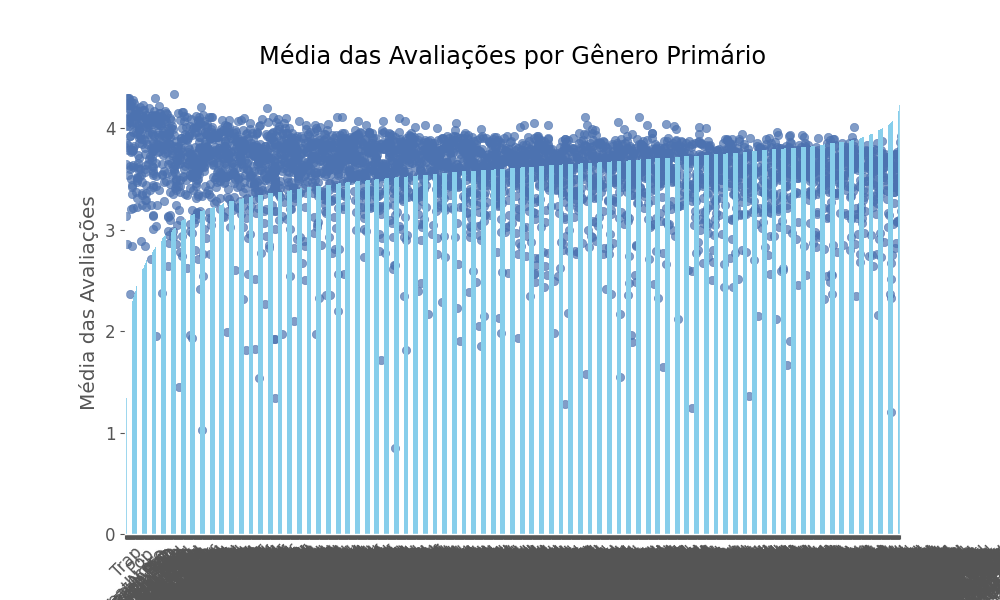
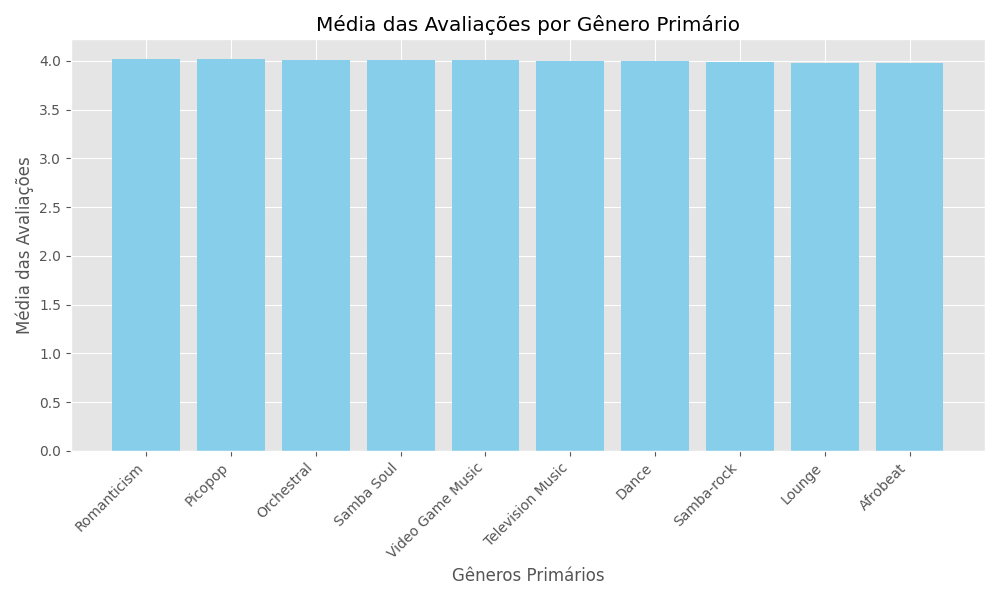
Versão inicial dos gráficos de ralacão entre variáveis

diff --git a/atividade_1/src/variable_relationships.py b/atividade_1/src/variable_relationships.py
@@ -1,0 +1,114 @@
+import pandas as pd
+import matplotlib.pyplot as plt
+import numpy as np
+from frequency_tables import sturges_rule
+
+# Carregar o dataset
+data = pd.read_csv('assets/rym_clean1.csv')
+
+def group_and_average(data, column, values_column, nbins):
+    """
+    Agrupa os valores em intervalos e calcula a média para cada intervalo.
+    """
+    is_datetime = np.issubdtype(data[column].dtype, np.datetime64)
+
+    # Se for datetime, criar uma cópia numérica para binning
+    col_for_binning = data[column].astype('int64') if is_datetime else data[column]
+
+    min_val, max_val = col_for_binning.min(), col_for_binning.max()
+    bin_edges = np.linspace(min_val, max_val, nbins + 1)
+    data['Intervalo'] = pd.cut(col_for_binning, bins=bin_edges, include_lowest=True)
+    grouped = data.groupby('Intervalo')[values_column].mean().reset_index()
+    grouped.rename(columns={values_column: 'Média'}, inplace=True)
+
+    # Reverter intervalos para datas legíveis, se necessário
+    if is_datetime:
+        grouped['Intervalo'] = grouped['Intervalo'].apply(
+            lambda x: f"{pd.to_datetime(x.left).date()} - {pd.to_datetime(x.right).date()}"
+        )
+
+    return grouped
+
+
+def plot_variable_relationships():
+    """
+    Gera gráficos de relação entre variáveis.
+    """
+    # Configuração geral
+    plt.style.use('ggplot')
+
+    # Gráfico 1: Média das avaliações vs. Número de resenhas
+    plt.figure(figsize=(8, 6))
+    plt.scatter(data['review_count'], data['avg_rating'], alpha=0.7)
+    plt.title('Média das Avaliações vs. Número de Resenhas')
+    plt.xlabel('Número de Resenhas')
+    plt.ylabel('Média das Avaliações')
+    plt.grid(True)
+    plt.tight_layout()
+    plt.savefig('outputs/Media_vs_Resenhas.png')
+
+    # Gráfico 2: Data de lançamento vs. Média das avaliações
+    data['release_date'] = pd.to_datetime(data['release_date'])
+    nbins = sturges_rule(len(data))
+    grouped_data = group_and_average(data, 'release_date', 'avg_rating', nbins)
+    grouped_data.plot(kind='line', x='Intervalo', y='Média', figsize=(10, 6), marker='o')
+    plt.title('Média das Avaliações vs. Data de Lançamento')
+    plt.xlabel('Intervalos de Data de Lançamento')
+    plt.ylabel('Média das Avaliações')
+    plt.xticks(rotation=45, ha='right')  # Rotacionar os rótulos do eixo X
+    plt.grid(True)
+    plt.tight_layout()
+    plt.savefig('outputs/Media_vs_Data.png')
+
+    # Gráfico 3: Gêneros primários vs. Média das avaliações (corrigido)
+    genre_data = data[['primary_genres', 'avg_rating']].dropna()
+
+    # Separar múltiplos gêneros
+    genre_data['primary_genres'] = genre_data['primary_genres'].str.split(',')
+
+    # Remover espaços extras e explodir
+    genre_data = genre_data.explode('primary_genres')
+    genre_data['primary_genres'] = genre_data['primary_genres'].str.strip()
+
+    # Agrupar por gênero individual e calcular média
+    genre_avg = genre_data.groupby('primary_genres')['avg_rating'].mean().reset_index()
+    genre_avg = genre_avg.sort_values(by='avg_rating', ascending=False).head(10)  # Top 10 gêneros
+
+    # Plotar
+    plt.figure(figsize=(10, 6))
+    plt.bar(genre_avg['primary_genres'], genre_avg['avg_rating'], color='skyblue')
+    plt.title('Média das Avaliações por Gênero Primário')
+    plt.xlabel('Gêneros Primários')
+    plt.ylabel('Média das Avaliações')
+    plt.xticks(rotation=45, ha='right')
+    plt.tight_layout()
+    plt.savefig('outputs/Media_por_Genero.png')
+
+
+    # Gráfico 4: Descritores vs. Média das avaliações (corrigido)
+    descriptor_data = data[['descriptors', 'avg_rating']].dropna()
+
+    # Separar múltiplos descritores em listas
+    descriptor_data['descriptors'] = descriptor_data['descriptors'].str.split(',')
+
+    # Remover espaços e explodir
+    descriptor_data = descriptor_data.explode('descriptors')
+    descriptor_data['descriptors'] = descriptor_data['descriptors'].str.strip()
+
+    # Agrupar por descritor individual
+    descriptor_avg = descriptor_data.groupby('descriptors')['avg_rating'].mean().reset_index()
+    descriptor_avg = descriptor_avg.sort_values(by='avg_rating', ascending=False).head(10)  # Top 10
+
+    # Plotar
+    plt.figure(figsize=(10, 6))
+    plt.bar(descriptor_avg['descriptors'], descriptor_avg['avg_rating'], color='lightgreen')
+    plt.title('Média das Avaliações por Descritor')
+    plt.xlabel('Descritores')
+    plt.ylabel('Média das Avaliações')
+    plt.xticks(rotation=45, ha='right')
+    plt.tight_layout()
+    plt.savefig('outputs/Media_por_Descritor.png')
+
+
+if __name__ == "__main__":
+    plot_variable_relationships()

diff --git a/atividade_1/src/generate_outputs.py b/atividade_1/src/generate_outputs.py
@@ -1,6 +1,6 @@
 from frequency_tables import generate_frequency_tables
 from variables_graphs import plot_all_graphs
-from relation_variables_graphs import plot_relation_variables
+from variable_relationships import plot_relation_variables
 
 def generate_outputs() -> None:
     print('Construindo tabelas de frequências...')
